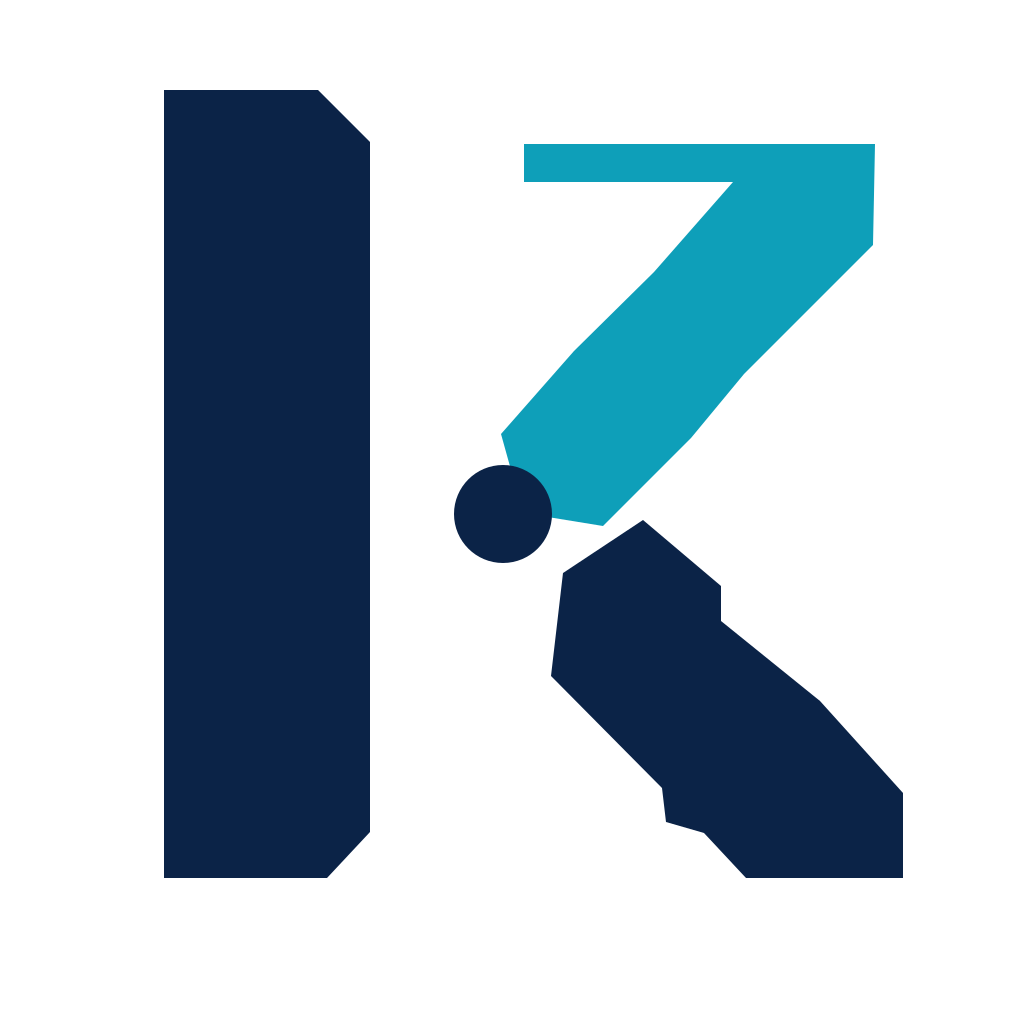
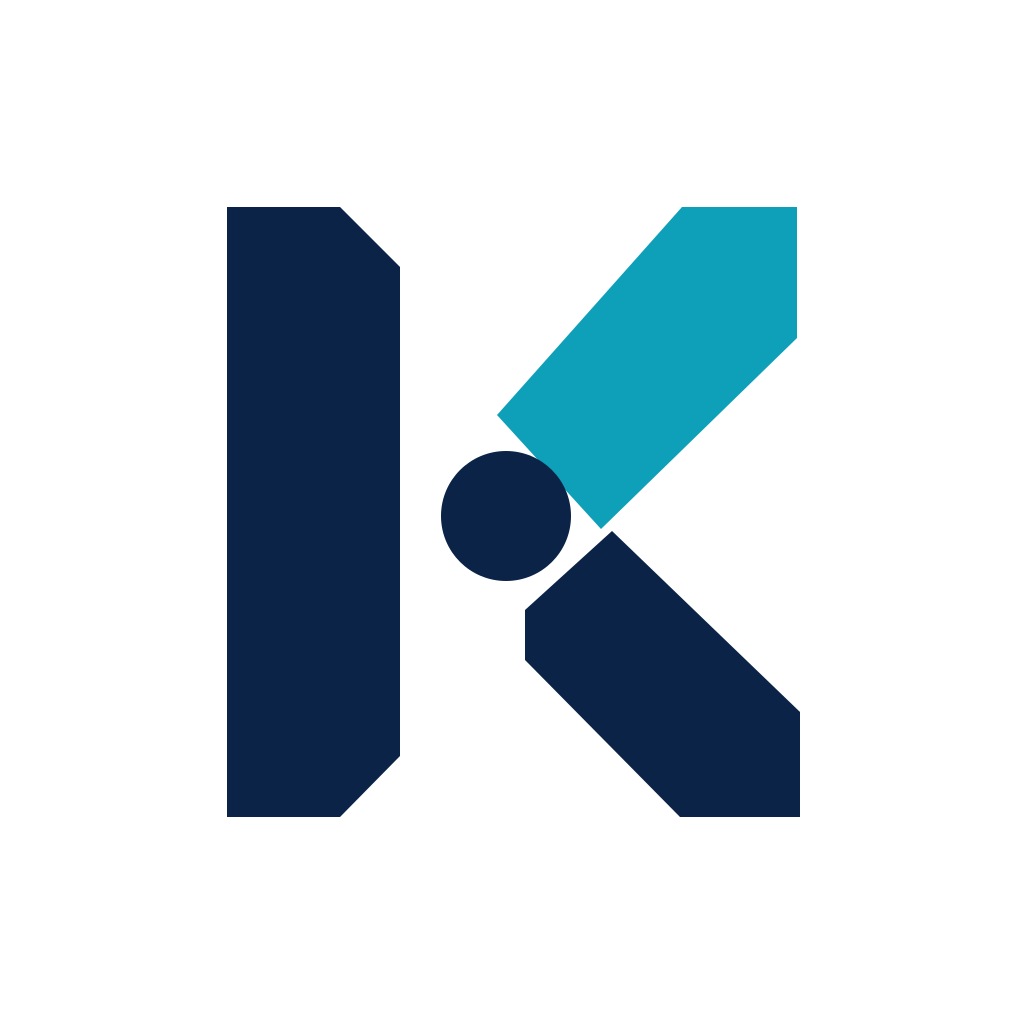
Polish Konnections login branding
Replace the malformed mark paths with clean geometry across the login screen, splash, and app icons. Remove the sun and cloud animation, improve dark-mode contrast, enlarge the login mark, and rename the engagement chip to Stay connected.

diff --git a/src/app/index.tsx b/src/app/index.tsx
@@ -1,5 +1,4 @@
-import { Animated, Easing, Pressable, ScrollView, StyleSheet, Text, View, useColorScheme } from 'react-native';
-import { useEffect, useRef } from 'react';
+import { Pressable, ScrollView, StyleSheet, Text, View, useColorScheme } from 'react-native';
 import { SafeAreaView } from 'react-native-safe-area-context';
 import Svg, { Circle, Path } from 'react-native-svg';
 
@@ -54,13 +53,13 @@ function ProviderButton({ provider }: { provider: Provider }) {
   );
 }
 
-function KonnectionsMark({ size = 108 }: { size?: number }) {
+function KonnectionsMark({ size = 108, navy = '#0B2347' }: { size?: number; navy?: string }) {
   return (
     <Svg width={size} height={size} viewBox="0 0 1024 1024">
-      <Path d="M164 90H318L370 142V832L327 878H164Z" fill="#0B2347" />
-      <Path d="M524 144H875L873 245L744 374L691 438L603 526L523 513L501 434L574 351L654 272L733 182H524Z" fill="#0E9FB9" />
-      <Path d="M563 573L643 520L721 586V621L820 701L903 793V878H746L704 833L666 822L662 788L551 676Z" fill="#0B2347" />
-      <Circle cx="503" cy="514" r="49" fill="#0B2347" />
+      <Path d="M227 207H340L400 267V756L340 817H227Z" fill={navy} />
+      <Path d="M682 207H797V338L601 529L497 415Z" fill="#0E9FB9" />
+      <Path d="M612 531L800 712V817H680L525 660V610Z" fill={navy} />
+      <Circle cx="506" cy="516" r="65" fill={navy} />
     </Svg>
   );
 }
@@ -68,82 +67,19 @@ function KonnectionsMark({ size = 108 }: { size?: number }) {
 export default function AuthScreen() {
   const scheme = useColorScheme();
   const isDark = scheme === 'dark';
-  const rays = useRef(new Animated.Value(0)).current;
-  const cloud = useRef(new Animated.Value(0)).current;
   const theme = isDark
     ? {
         background: '#001532',
         text: '#FFFFFF',
         textSecondary: '#B9C2D4',
-        accent: '#F7B84B',
         accentSoft: 'rgba(247, 184, 75, 0.22)',
-        cloud: 'rgba(255,255,255,0.16)',
-        cloudSoft: 'rgba(255,255,255,0.10)',
       }
     : {
         background: '#F5F8FB',
         text: '#10213D',
         textSecondary: '#5C667A',
-        accent: '#F2B84B',
         accentSoft: 'rgba(242, 184, 75, 0.18)',
-        cloud: 'rgba(255,255,255,0.88)',
-        cloudSoft: 'rgba(255,255,255,0.60)',
       };
-
-  useEffect(() => {
-    const rayLoop = Animated.loop(
-      Animated.sequence([
-        Animated.timing(rays, {
-          toValue: 1,
-          duration: 2400,
-          easing: Easing.inOut(Easing.sin),
-          useNativeDriver: true,
-        }),
-        Animated.timing(rays, {
-          toValue: 0,
-          duration: 2400,
-          easing: Easing.inOut(Easing.sin),
-          useNativeDriver: true,
-        }),
-      ]),
-    );
-    const cloudLoop = Animated.loop(
-      Animated.sequence([
-        Animated.timing(cloud, {
-          toValue: 1,
-          duration: 5200,
-          easing: Easing.inOut(Easing.sin),
-          useNativeDriver: true,
-        }),
-        Animated.timing(cloud, {
-          toValue: 0,
-          duration: 5200,
-          easing: Easing.inOut(Easing.sin),
-          useNativeDriver: true,
-        }),
-      ]),
-    );
-
-    rayLoop.start();
-    cloudLoop.start();
-    return () => {
-      rayLoop.stop();
-      cloudLoop.stop();
-    };
-  }, [cloud, rays]);
-
-  const rayOpacity = rays.interpolate({
-    inputRange: [0, 1],
-    outputRange: [0.22, 0.44],
-  });
-  const rayScale = rays.interpolate({
-    inputRange: [0, 1],
-    outputRange: [0.96, 1.04],
-  });
-  const cloudX = cloud.interpolate({
-    inputRange: [0, 1],
-    outputRange: [-8, 10],
-  });
 
   return (
     <SafeAreaView style={[styles.safeArea, { backgroundColor: theme.background }]}>
@@ -154,48 +90,8 @@ export default function AuthScreen() {
         ]}
         showsVerticalScrollIndicator={false}>
         <View style={styles.header}>
-          <View style={styles.topArt} pointerEvents="none">
-            <Animated.View
-              style={[
-                styles.sunCore,
-                {
-                  backgroundColor: theme.accent,
-                  opacity: rayOpacity,
-                  transform: [{ scale: rayScale }],
-                },
-              ]}
-            />
-            <Animated.View
-              style={[
-                styles.rays,
-                {
-                  opacity: rayOpacity,
-                  transform: [{ scale: rayScale }],
-                  backgroundColor: theme.accentSoft,
-                },
-              ]}
-            />
-            <Animated.View
-              style={[
-                styles.cloudLeft,
-                {
-                  backgroundColor: theme.cloud,
-                  transform: [{ translateX: cloudX }],
-                },
-              ]}
-            />
-            <Animated.View
-              style={[
-                styles.cloudRight,
-                {
-                  backgroundColor: theme.cloudSoft,
-                  transform: [{ translateX: cloudX }],
-                },
-              ]}
-            />
-          </View>
           <View style={styles.markCluster}>
-            <KonnectionsMark size={96} />
+            <KonnectionsMark size={118} navy={isDark ? '#FFFFFF' : '#0B2347'} />
           </View>
           <Text style={[styles.title, { color: theme.text }]}>Get ready to konnect.</Text>
           <Text style={[styles.subtitle, { color: theme.textSecondary }]}>
@@ -220,7 +116,7 @@ export default function AuthScreen() {
                   borderColor: theme.accentSoft,
                 },
               ]}>
-              <Text style={[styles.chipText, { color: theme.text }]}>Community updates</Text>
+              <Text style={[styles.chipText, { color: theme.text }]}>Stay connected</Text>
             </View>
           </View>
         </View>
@@ -257,44 +153,6 @@ const styles = StyleSheet.create({
     alignItems: 'center',
     gap: 12,
     paddingTop: 6,
-  },
-  topArt: {
-    width: '100%',
-    height: 92,
-    alignItems: 'center',
-    justifyContent: 'center',
-    marginBottom: -8,
-  },
-  rays: {
-    position: 'absolute',
-    width: 88,
-    height: 88,
-    borderRadius: 44,
-    opacity: 0.3,
-  },
-  sunCore: {
-    position: 'absolute',
-    width: 62,
-    height: 62,
-    borderRadius: 31,
-  },
-  cloudLeft: {
-    position: 'absolute',
-    top: 20,
-    left: 24,
-    width: 96,
-    height: 30,
-    borderRadius: 999,
-    opacity: 0.55,
-  },
-  cloudRight: {
-    position: 'absolute',
-    top: 12,
-    right: 30,
-    width: 74,
-    height: 26,
-    borderRadius: 999,
-    opacity: 0.42,
   },
   markCluster: {
     width: 120,
